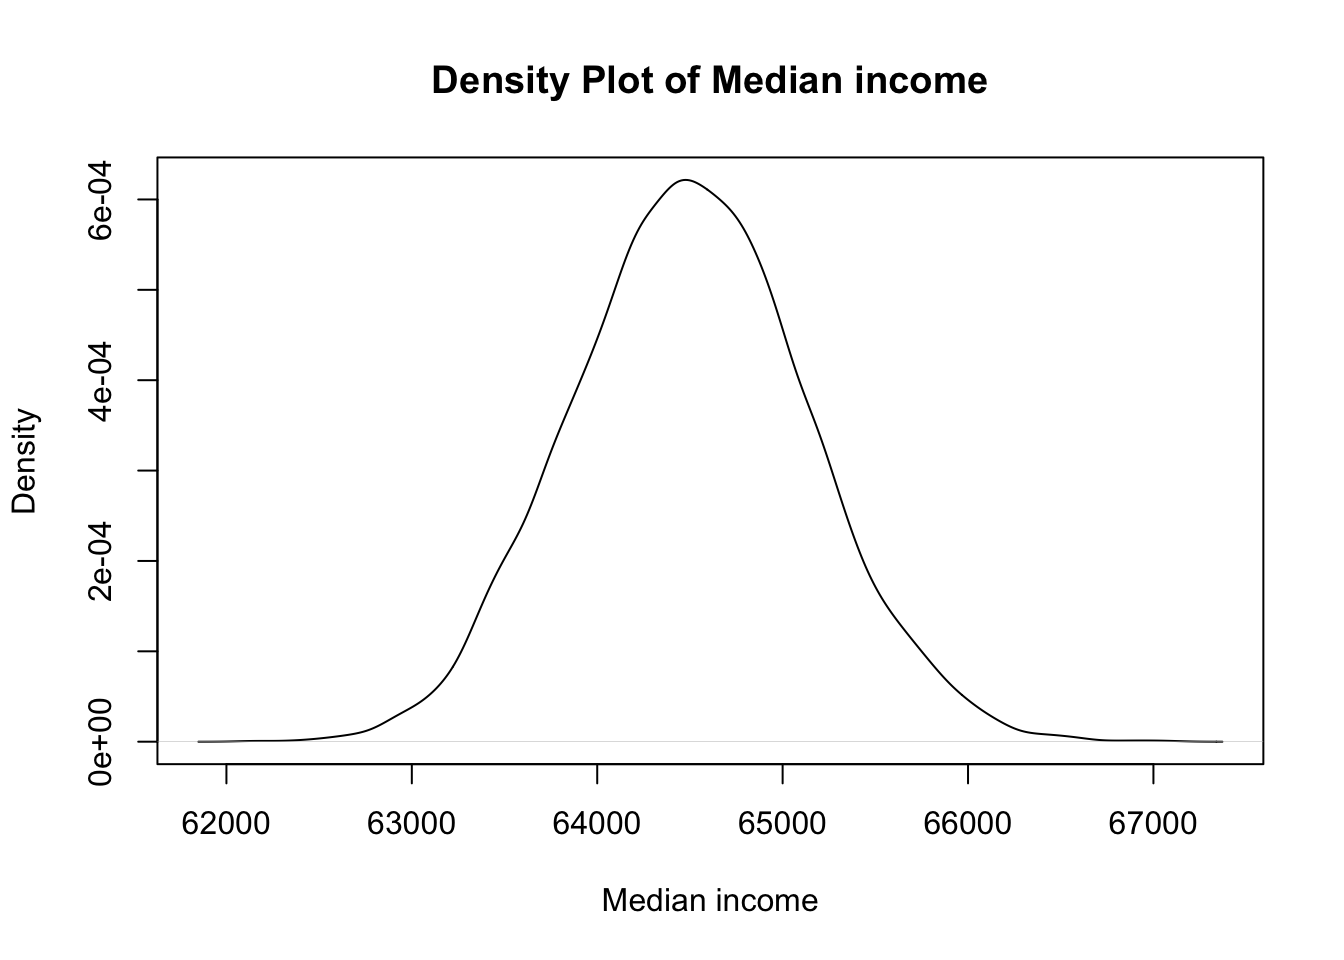
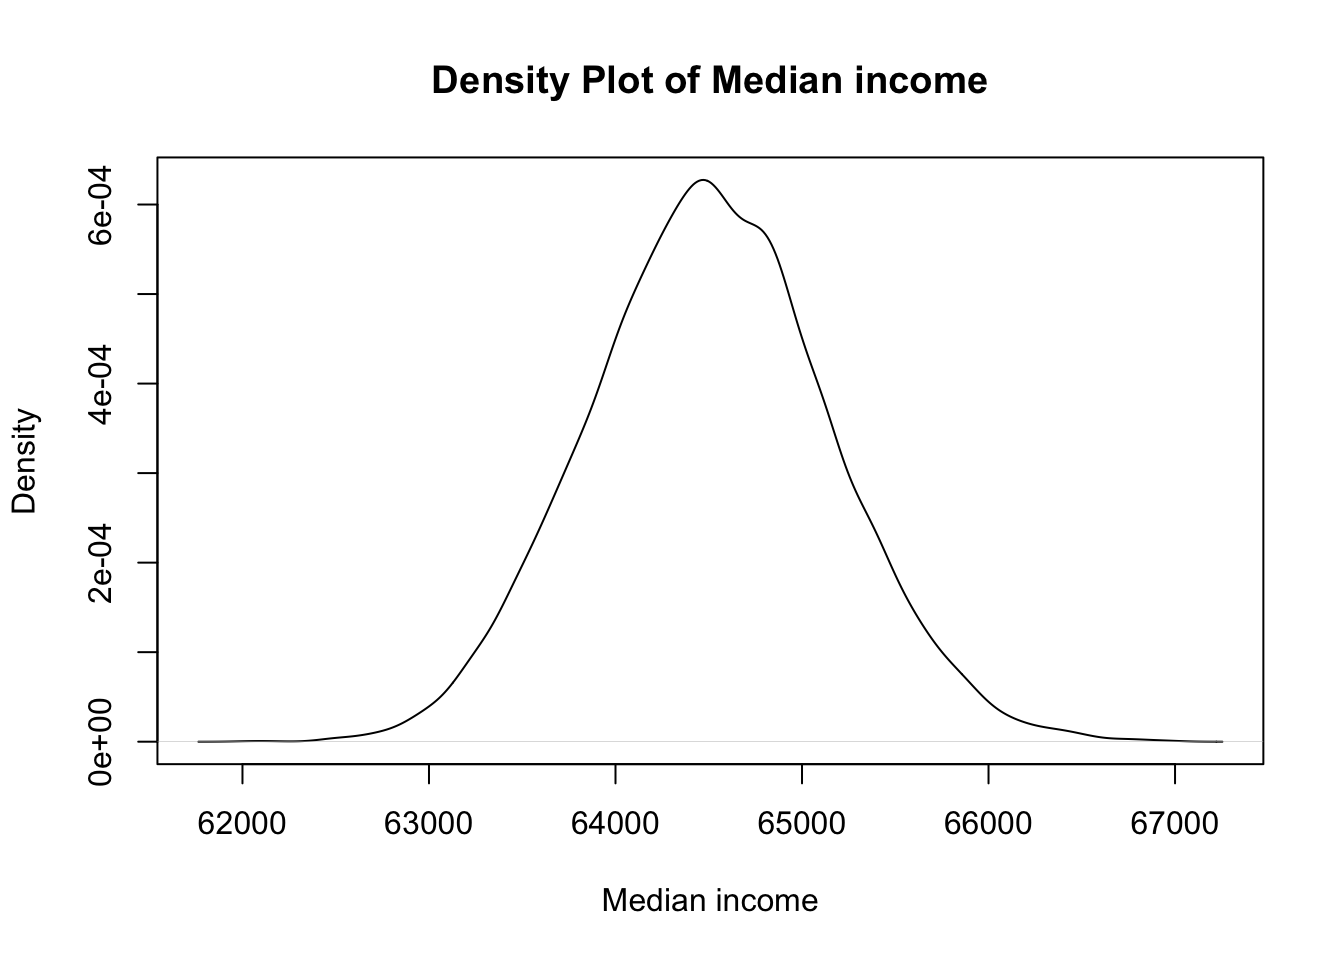
2131024

diff --git a/docs/Catallactics/Personal/niftyreturns.html b/docs/Catallactics/Personal/niftyreturns.html
@@ -874,7 +874,7 @@ cookieconsent.run({
 
 
 <p>The Nifty index came into existence around 29 years ago in April 1996. If you had invested ₹100 on that date, you would have received a compounded annual growth rate (CAGR) of 12.03%, with the initial corpus growing to ₹2296. We all know that in the future, the return may be lower, higher, or even the same. We are blind to the future return of the index, say, after another 29 years; this is what we may call <strong>market risk</strong>.</p>
-<p>This average return cleverly hides two other important risks: <strong>volatility risk</strong> and <strong>sequence of return risk</strong>. Both require a little explanation to understand their true impact on us.</p>
+<p>This average return cleverly hides other important risks: <strong>volatility risk, inaction risk</strong> and <strong>sequence of return risk</strong>. They require a little explanation to understand their true impact on us.</p>
 <p><strong>Sequence of return risk</strong> originates from the fact that, unlike an index, we have a life cycle, and we invest to meet life cycle events without having to beg for help. These events include non-discretionary and discretionary spending after retirement (forced or voluntary), child education, marriage expenses, medical expenses, etc., to mention a few. Hence, whether we like it or not, we have to involuntarily time the market—namely, the starting point of the investment journey, in-between investments (regular or irregular SIPs), and the endpoint when we start withdrawing money as a lump sum or as regular or irregular SWPs.</p>
 <p>Essentially, unlike an index, for us, the sequence in which the return is generated matters as much as the rate of return. We may try to understand this from the following example.</p>
 <p>Mr.&nbsp;Mony, 65, painstakingly accumulated a corpus of ₹1 crore for his retirement. He retired in 2006 and plans to withdraw ₹4 lakhs every year. He has all his retirement corpus in a Nifty ETF. He did so thinking that in the long term, say, the next 30 years, the CAGR would beat inflation, unlike debt instruments like G-secs or bonds.</p>
@@ -987,7 +987,7 @@ Tip
 <p>Sequence of return risk not only affects the TPV when we withdraw but also equally affects TPV when we are periodically adding money through SIPs.</p>
 </div>
 </div>
-<p>What if we withdraw or add a fixed percentage instead of a fixed amount? When exactly in your life cycle does sequence of return risk bites you most? These and the other two risks can be discussed in upcoming articles.</p>
+<p>What if we withdraw or add a fixed percentage instead of a fixed amount? When exactly in your life cycle does sequence of return risk bites you most? These and the other risks can be discussed in upcoming articles.</p>
 
 
 

diff --git a/docs/posts/montecarlo.html b/docs/posts/montecarlo.html
@@ -1084,7 +1084,7 @@ Income distribution is not normal
 </details>
 <div class="cell-output cell-output-stdout">
 <pre><code>     Min.   1st Qu.    Median      Mean   3rd Qu.      Max. 
-2.005e+05 2.961e+05 3.434e+05 6.998e+05 4.388e+05 1.219e+09 </code></pre>
+2.003e+05 2.956e+05 3.441e+05 7.325e+05 4.373e+05 1.522e+09 </code></pre>
 </div>
 <details open="" class="code-fold">
 <summary>Code</summary>
@@ -1092,7 +1092,7 @@ Income distribution is not normal
 </details>
 <div class="cell-output cell-output-stdout">
 <pre><code>   Min. 1st Qu.  Median    Mean 3rd Qu.    Max. 
-  62122   64066   64499   64500   64926   67099 </code></pre>
+  62039   64067   64500   64506   64927   66979 </code></pre>
 </div>
 <details open="" class="code-fold">
 <summary>Code</summary>
@@ -1100,7 +1100,7 @@ Income distribution is not normal
 </details>
 <div class="cell-output cell-output-stdout">
 <pre><code>     Min.   1st Qu.    Median      Mean   3rd Qu.      Max. 
-9.271e+05 3.360e+06 5.672e+06 4.053e+07 1.215e+07 1.219e+11 </code></pre>
+9.060e+05 3.313e+06 5.632e+06 4.377e+07 1.187e+07 1.522e+11 </code></pre>
 </div>
 </div>
 </section>

diff --git a/docs/Biomedical/Research Methodology/wrangling.html b/docs/Biomedical/Research Methodology/wrangling.html
@@ -2379,11 +2379,11 @@ Record
 <div class="cell-output cell-output-stdout">
 <pre><code>     age   sex  class
    &lt;int&gt; &lt;int&gt; &lt;fctr&gt;
-1:     1     0  child
-2:     2     1  child
+1:     1     1  child
+2:     2     0  child
 3:     3     0  child
-4:     4     0  child
-5:     5     0  child
+4:     4     1  child
+5:     5     1  child
 6:     6     0  child</code></pre>
 </div>
 </div>
@@ -2402,11 +2402,11 @@ Record
 <pre><code>Key: &lt;age&gt;
      age      0      1
    &lt;int&gt; &lt;fctr&gt; &lt;fctr&gt;
-1:     1  child   &lt;NA&gt;
-2:     2   &lt;NA&gt;  child
+1:     1   &lt;NA&gt;  child
+2:     2  child   &lt;NA&gt;
 3:     3  child   &lt;NA&gt;
-4:     4  child   &lt;NA&gt;
-5:     5  child   &lt;NA&gt;
+4:     4   &lt;NA&gt;  child
+5:     5   &lt;NA&gt;  child
 6:     6  child   &lt;NA&gt;</code></pre>
 </div>
 </div>

diff --git a/docs/Revision notes/Diagrams/diagrams.html b/docs/Revision notes/Diagrams/diagrams.html
@@ -1374,7 +1374,7 @@ window.document.addEventListener("DOMContentLoaded", function (event) {
 </div>
   </div>
 </footer>
-<script>var lightboxQuarto = GLightbox({"selector":".lightbox","openEffect":"zoom","descPosition":"bottom","loop":false,"closeEffect":"zoom"});
+<script>var lightboxQuarto = GLightbox({"selector":".lightbox","loop":false,"descPosition":"bottom","openEffect":"zoom","closeEffect":"zoom"});
 (function() {
   let previousOnload = window.onload;
   window.onload = () => {
